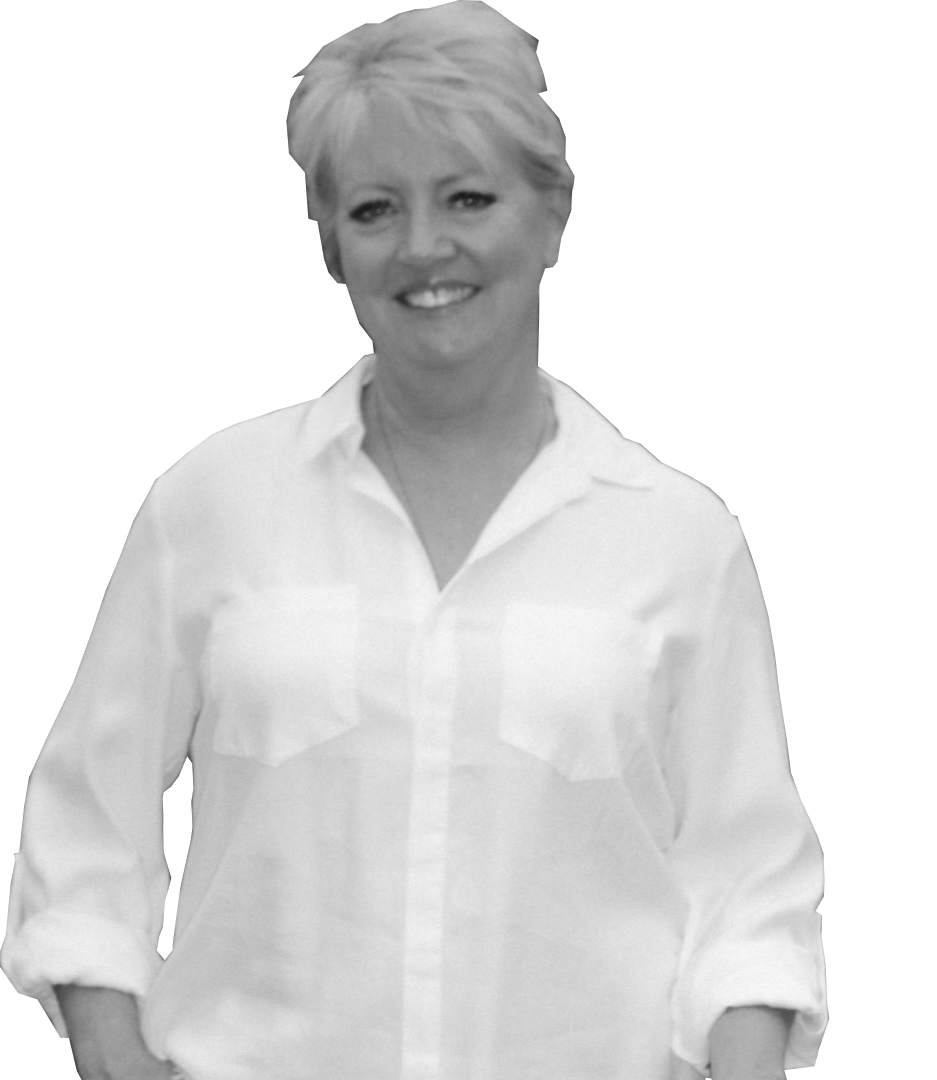
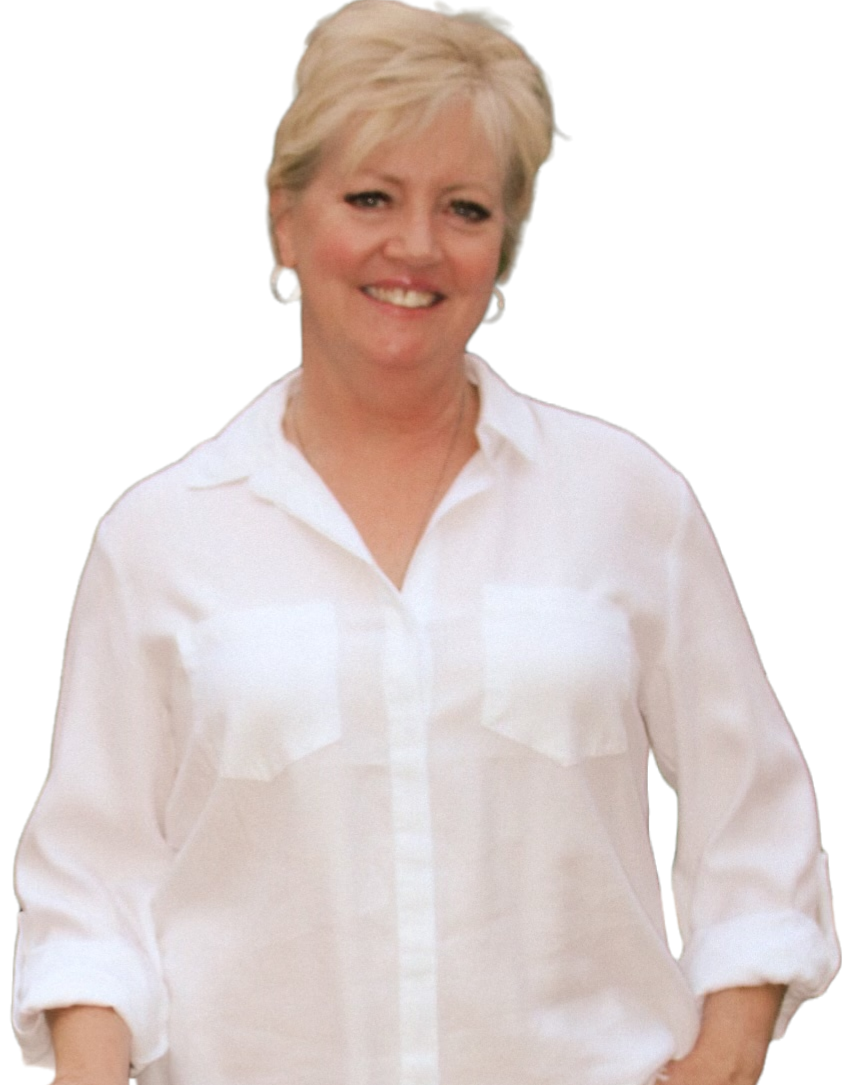
new color skeme / top image colorized

diff --git a/css/main.css b/css/main.css
@@ -60,7 +60,7 @@ div.clear {
   color: #fffbee;
   padding: 0.75em 1.5em;
   border: none;
-  background-color: #c9985c;
+  background-color: #c5a72f;
   font-weight: bold;
   transition: filter 0.1s ease;
   display: inline-block;
@@ -68,7 +68,7 @@ div.clear {
 }
 .button:focus-visible {
   outline: none;
-  box-shadow: 0 0 0 4px var(--bg), 0 0 0 8px #c9985c;
+  box-shadow: 0 0 0 4px var(--bg), 0 0 0 8px #c5a72f;
 }
 .button:hover {
   cursor: pointer;
@@ -76,8 +76,8 @@ div.clear {
 }
 .button.b2 {
   background: transparent;
-  color: #c9985c;
-  border: 0.2rem solid #c9985c;
+  color: #c5a72f;
+  border: 0.2rem solid #c5a72f;
   font-size: 1.3rem;
 }
 .button:disabled {
@@ -146,12 +146,12 @@ main > section h4 {
   background-repeat: no-repeat;
   background-size: contain;
   position: absolute;
-  bottom: -10px;
+  bottom: 0px;
   right: -250px;
   width: 600px;
   height: 700px;
-  opacity: 0.8;
-  filter: blur(1px);
+  opacity: 1;
+  filter: brightness(105%);
 }
 .title .center h2 {
   font-size: 2.5rem;
@@ -169,9 +169,9 @@ main > section h4 {
 }
 
 .about {
-  border-top: 0.5rem solid #c9985c;
-  background: #492c18;
-  --bg: #492c18;
+  border-top: 0.5rem solid #c5a72f;
+  background: #433c38;
+  --bg: #433c38;
   margin-bottom: 4rem;
   padding: 2rem 0;
   color: #fffbee;
@@ -183,7 +183,7 @@ main > section h4 {
   float: left;
   height: 400px;
   margin-right: 4rem;
-  box-shadow: 0.5rem 0.5rem #c9985c;
+  box-shadow: 0.5rem 0.5rem #c5a72f;
 }
 .about .center p {
   font-size: 1.5rem;
@@ -197,7 +197,7 @@ main > section h4 {
   text-align: center;
 }
 .video .center iframe {
-  box-shadow: -1rem -1rem #c9985c;
+  box-shadow: -1rem -1rem #c5a72f;
   border: none;
   background: black;
   width: 640px;
@@ -232,7 +232,7 @@ main > section h4 {
 .contact img {
   width: 400px;
   float: right;
-  box-shadow: 1rem -1rem #c9985c;
+  box-shadow: 1rem -1rem #c5a72f;
   margin-top: 1rem;
   margin-left: 2rem;
   margin-bottom: 2rem;
@@ -244,7 +244,7 @@ main > section h4 {
 .contact form input, .contact form textarea {
   display: block;
   font-size: inherit;
-  border: 2px solid #c9985c;
+  border: 2px solid #c5a72f;
   padding: 0.5rem 1rem;
   background: none;
   font-family: inherit;
@@ -253,7 +253,7 @@ main > section h4 {
 }
 .contact form input:focus, .contact form input:focus-visible, .contact form textarea:focus, .contact form textarea:focus-visible {
   outline: none;
-  box-shadow: 0 0 0 4px #fffbee, 0 0 0 8px #c9985c;
+  box-shadow: 0 0 0 4px #fffbee, 0 0 0 8px #c5a72f;
 }
 .contact form button {
   display: block;

diff --git a/css/main.scss b/css/main.scss
@@ -1,5 +1,6 @@
-$theme: #c9985c;
+$theme: #c5a72f;
 $white: #fffbee;
+$dark: #433c38;
 
 body,
 html {
@@ -153,12 +154,12 @@ main > section {
           background-repeat: no-repeat;
           background-size: contain;
           position: absolute;
-          bottom: -10px;
+          bottom: 0px;
           right: -250px;
           width: 600px;
           height: 700px;
-          opacity: 0.8;
-          filter: blur(1px);
+          opacity: 1;
+          filter: brightness(105%);
       }
     h2 {
       font-size: 2.5rem;
@@ -180,8 +181,8 @@ main > section {
 .about {
   border-top: 0.5rem solid $theme;
 //   border-bottom: 0.5rem solid $theme;
-  background: #492c18;
-  --bg: #492c18;
+  background: $dark;
+  --bg: #{$dark};
   margin-bottom: 4rem;
   padding: 2rem 0;
   color: $white;
